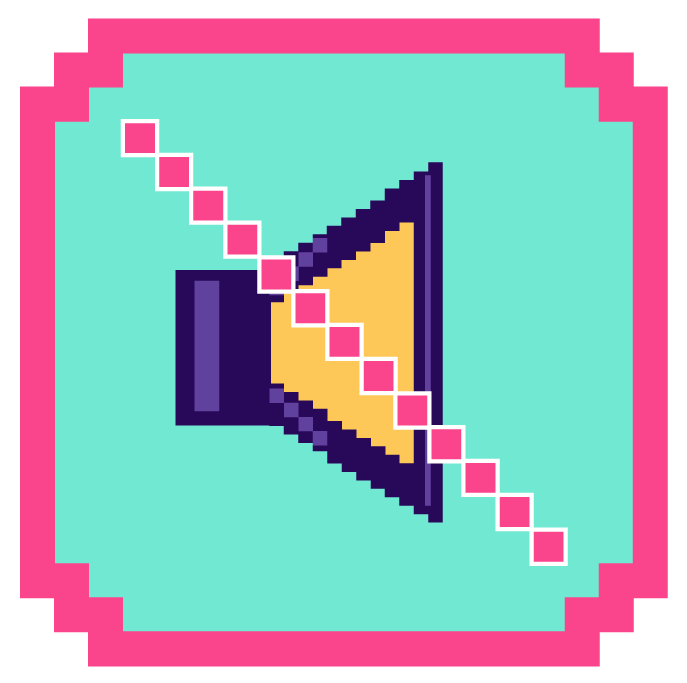
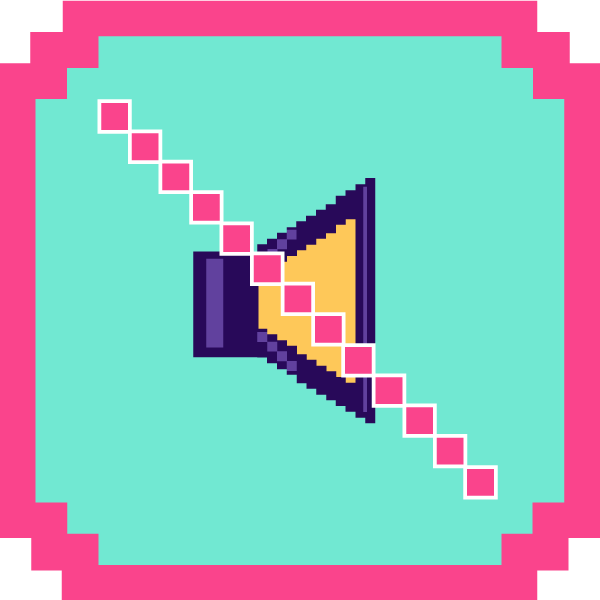
adjusting the volume animation

Changed region(s): [[0.0, 0.0, 1.0, 1.0]]

diff --git a/src/assets/js/script.js b/src/assets/js/script.js
@@ -21,7 +21,7 @@ function playSong(){
             icon.onclick = function(){
                 if(song.muted){
                     song.muted = false;
-                    icon.src = "../assets/images/volume-icon-pink.gif";
+                    icon.src = "../assets/images/volume-icon-pink-yellow.gif";
                 }else{
                     song.muted = true;
                     icon.src = "../assets/images/volume-icon-pink-mute.png";
@@ -35,7 +35,7 @@ function playSong(){
                 song.play();
                 if(song.muted){
                     song.muted = false;
-                    icon.src = "../assets/images/volume-icon-pink.gif";
+                    icon.src = "../assets/images/volume-icon-pink-yellow.gif";
                 }else{
                     song.muted = true;
                     icon.src = "../assets/images/volume-icon-pink-mute.png";
